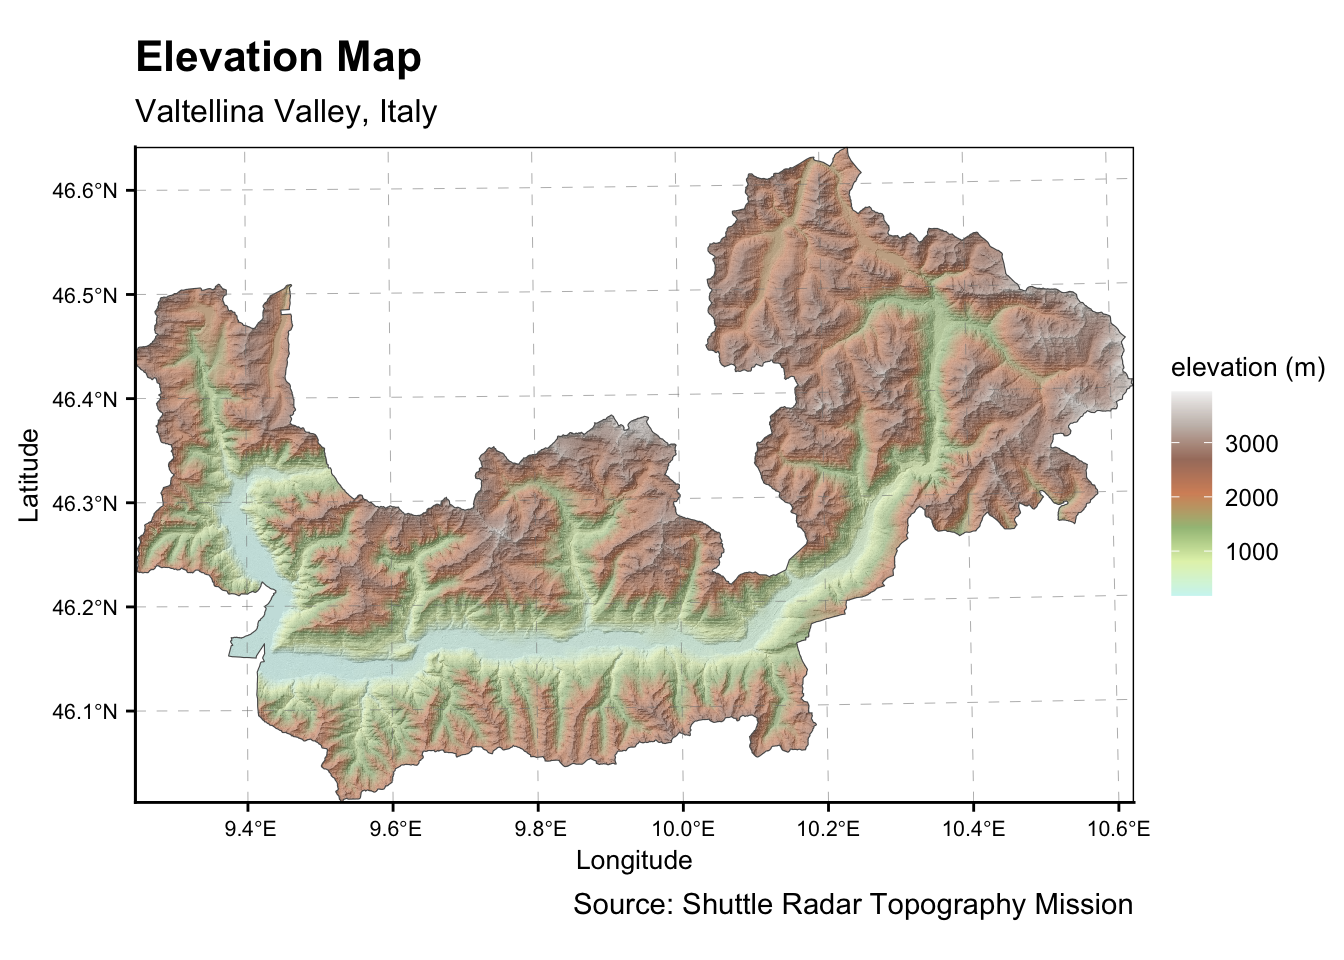
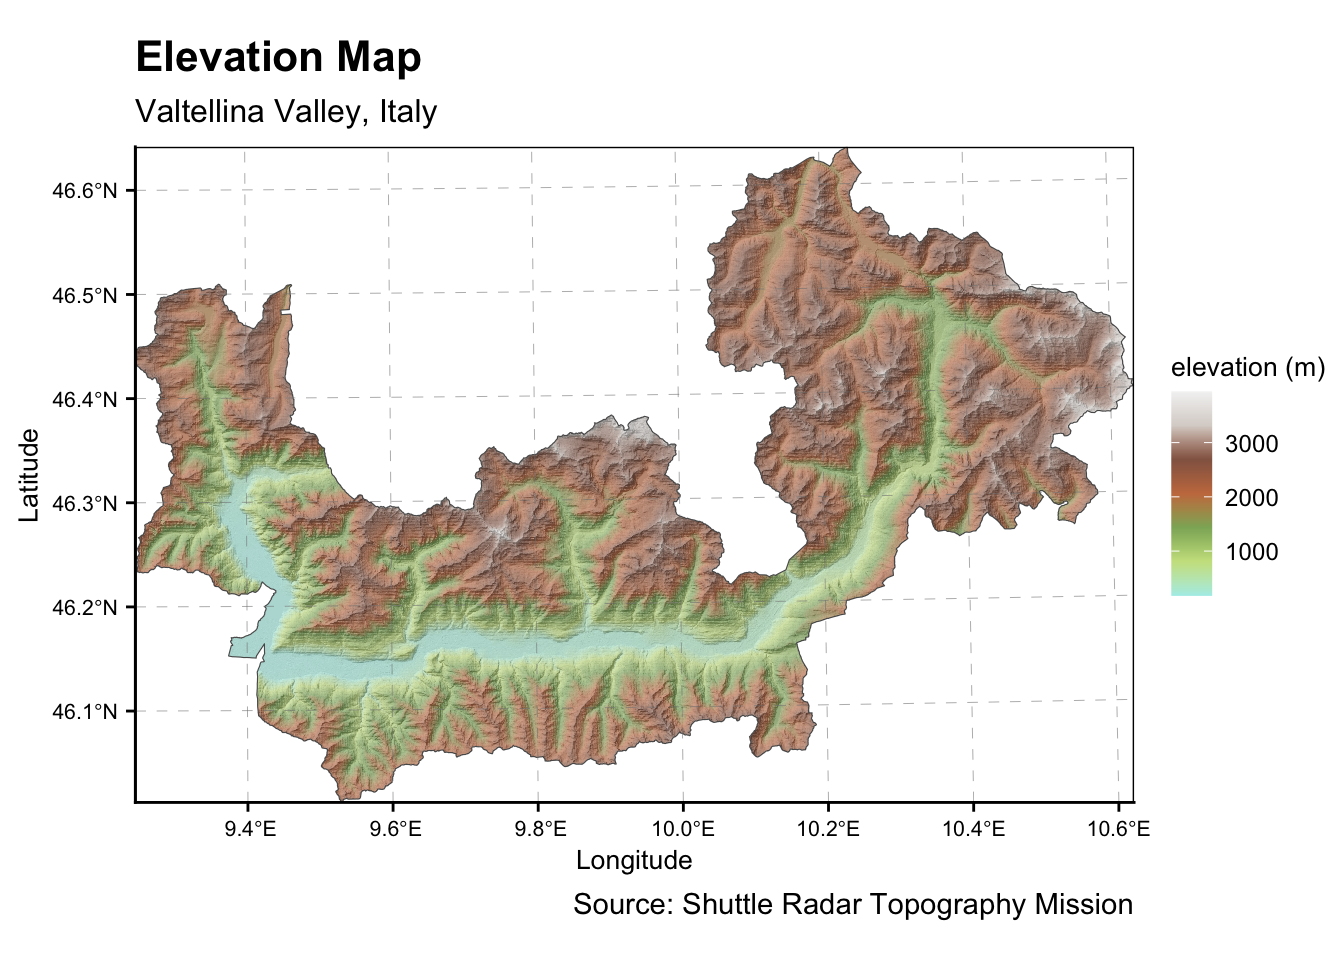
added visualisation cues

Changed region(s): [[0.125, 0.4375, 0.7188, 0.7812], [0.8438, 0.4375, 0.9062, 0.625]]

diff --git a/_site/project.html b/_site/project.html
@@ -346,13 +346,13 @@ pre > code.sourceCode > span > a:first-child::before { text-decoration: underlin
 <span id="cb7-8"><a href="#cb7-8" aria-hidden="true" tabindex="-1"></a>profile_classifed_df <span class="ot">&lt;-</span> <span class="fu">as.data.frame</span>(profile_classifed,<span class="at">xy=</span><span class="cn">TRUE</span>)<span class="sc">%&gt;%</span><span class="fu">drop_na</span>()</span>
 <span id="cb7-9"><a href="#cb7-9" aria-hidden="true" tabindex="-1"></a>profile_codes <span class="ot">&lt;-</span> <span class="fu">unique</span>(profile_classifed_df[<span class="st">"profile_curvature_cat"</span>])</span>
 <span id="cb7-10"><a href="#cb7-10" aria-hidden="true" tabindex="-1"></a>profile_names <span class="ot">&lt;-</span><span class="fu">c</span>(<span class="st">"convex"</span>, <span class="st">"flat"</span>, <span class="st">"concave"</span>)</span>
-<span id="cb7-11"><a href="#cb7-11" aria-hidden="true" tabindex="-1"></a>profile_colors <span class="ot">&lt;-</span><span class="fu">c</span>(<span class="st">"#65451F"</span>,<span class="st">"#FEFAE0"</span>,<span class="st">"#A9B388"</span>)</span>
+<span id="cb7-11"><a href="#cb7-11" aria-hidden="true" tabindex="-1"></a>profile_colors <span class="ot">&lt;-</span><span class="fu">c</span>(<span class="st">"#0d3d83"</span>,<span class="st">"#eff635"</span>,<span class="st">"#77d91d"</span>)</span>
 <span id="cb7-12"><a href="#cb7-12" aria-hidden="true" tabindex="-1"></a></span>
 <span id="cb7-13"><a href="#cb7-13" aria-hidden="true" tabindex="-1"></a>plan_classifed <span class="ot">&lt;-</span> <span class="fu">reclassify</span>(plan_c,reclass_m)</span>
 <span id="cb7-14"><a href="#cb7-14" aria-hidden="true" tabindex="-1"></a>plan_classifed_df <span class="ot">&lt;-</span> <span class="fu">as.data.frame</span>(plan_classifed,<span class="at">xy=</span><span class="cn">TRUE</span>)<span class="sc">%&gt;%</span><span class="fu">drop_na</span>()</span>
 <span id="cb7-15"><a href="#cb7-15" aria-hidden="true" tabindex="-1"></a>plan_codes <span class="ot">&lt;-</span> <span class="fu">unique</span>(plan_classifed_df[<span class="st">"plan_curvature_cat"</span>])</span>
 <span id="cb7-16"><a href="#cb7-16" aria-hidden="true" tabindex="-1"></a>plan_names <span class="ot">&lt;-</span><span class="fu">c</span>(<span class="st">"concave"</span>, <span class="st">"flat"</span>, <span class="st">"convex"</span>)</span>
-<span id="cb7-17"><a href="#cb7-17" aria-hidden="true" tabindex="-1"></a>plan_colors <span class="ot">&lt;-</span><span class="fu">c</span>(<span class="st">"#65451F"</span>,<span class="st">"#FEFAE0"</span>,<span class="st">"#A9B388"</span>)</span></code><button title="Copy to Clipboard" class="code-copy-button"><i class="bi"></i></button></pre></div>
+<span id="cb7-17"><a href="#cb7-17" aria-hidden="true" tabindex="-1"></a>plan_colors <span class="ot">&lt;-</span><span class="fu">c</span>(<span class="st">"#77d91d"</span>,<span class="st">"#eff635"</span>,<span class="st">"#0d3d83"</span>)</span></code><button title="Copy to Clipboard" class="code-copy-button"><i class="bi"></i></button></pre></div>
 </div>
 <section id="create-database" class="level2" style="color: #603494;">
 <h2 style="color: #603494;" class="anchored" data-anchor-id="create-database">6.0 Create Database</h2>
@@ -459,7 +459,7 @@ pre > code.sourceCode > span > a:first-child::before { text-decoration: underlin
 <span id="cb12-6"><a href="#cb12-6" aria-hidden="true" tabindex="-1"></a>  <span class="fu">new_scale_fill</span>() <span class="sc">+</span></span>
 <span id="cb12-7"><a href="#cb12-7" aria-hidden="true" tabindex="-1"></a>  <span class="fu">geom_raster</span>(<span class="fu">aes</span>(<span class="at">x=</span>x,<span class="at">y=</span>y,<span class="at">fill=</span>elevation_m),<span class="at">data=</span>elevation_df,<span class="at">alpha =</span> .<span class="dv">6</span>)<span class="sc">+</span></span>
 <span id="cb12-8"><a href="#cb12-8" aria-hidden="true" tabindex="-1"></a>  <span class="fu">geom_sf</span>(<span class="at">fill=</span><span class="st">'transparent'</span>,<span class="at">data=</span>valtellina)<span class="sc">+</span></span>
-<span id="cb12-9"><a href="#cb12-9" aria-hidden="true" tabindex="-1"></a>  <span class="fu">scale_fill_gradientn</span>(<span class="st">'elevation (m)'</span>, <span class="at">colours=</span><span class="fu">c</span>(<span class="st">"#cef5f1"</span>,<span class="st">"#e3f2b8"</span>,<span class="st">"#a3bf86"</span>,<span class="st">"#d69068"</span>,<span class="st">"#a77d6c"</span>,<span class="st">"#c7bdb7"</span>,<span class="st">"#f3f3f3"</span>))<span class="sc">+</span></span>
+<span id="cb12-9"><a href="#cb12-9" aria-hidden="true" tabindex="-1"></a>  <span class="fu">scale_fill_gradientn</span>(<span class="st">'elevation (m)'</span>, <span class="at">colours=</span><span class="fu">c</span>(<span class="st">"#aeede7"</span>,<span class="st">"#cbe18d"</span>,<span class="st">"#8cb066"</span>,<span class="st">"#c87a4d"</span>,<span class="st">"#936451"</span>,<span class="st">"#dad3ce"</span>,<span class="st">"#f3f3f3"</span>))<span class="sc">+</span></span>
 <span id="cb12-10"><a href="#cb12-10" aria-hidden="true" tabindex="-1"></a>  <span class="fu">coord_sf</span>(<span class="at">expand=</span><span class="cn">FALSE</span>)<span class="sc">+</span></span>
 <span id="cb12-11"><a href="#cb12-11" aria-hidden="true" tabindex="-1"></a>  <span class="fu">labs</span>(<span class="at">x=</span><span class="st">'Longitude'</span>,<span class="at">y=</span><span class="st">'Latitude'</span>,</span>
 <span id="cb12-12"><a href="#cb12-12" aria-hidden="true" tabindex="-1"></a>       <span class="at">title=</span><span class="st">"Elevation Map"</span>,</span>
